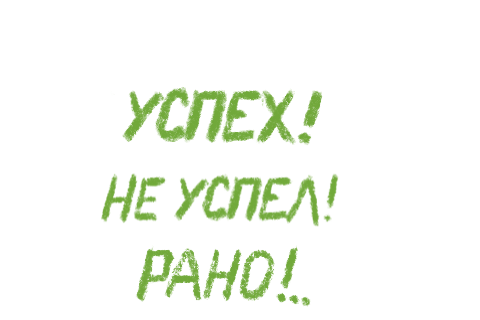
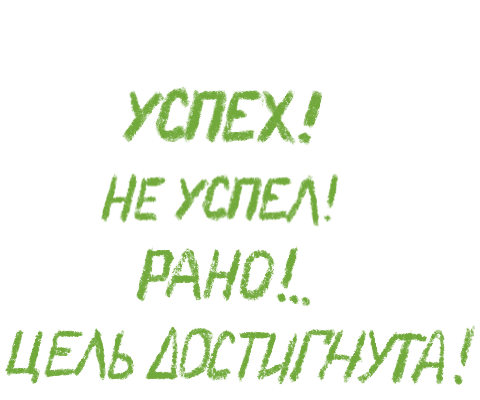
complete message and insta picture

Changed region(s): [[0.0, 0.2188, 1.0, 0.9688]]

diff --git a/first-fox-on-the-moon/index.html b/first-fox-on-the-moon/index.html
@@ -9,9 +9,11 @@
   <script type="text/javascript" src="../lib/book/Book.js"></script>
   <link rel="stylesheet" href="control/control.css">
   <script type="text/javascript" src="control/Control.js"></script>
-  <link rel="stylesheet" href="../css/my.css">
 
   <style>
+    html {
+      --page-aspect-ratio: calc(1504/1622);
+    }
     .book {
       --page-aspect-ratio: calc(1504/1622);
       --border: 2px solid #ddd;
@@ -40,6 +42,72 @@
     .content__hint-video {
       width: 100%;
       margin-top: 10%;
+    }
+
+    html {
+      height: 100%;
+      --page-aspect-ratio: calc(1504/1622);
+    }
+
+    .body {
+      --links-size: 80px;
+      --body-margin: 8px;
+      --links-margin: 8px;
+      --links-self-margin: 60px;
+      overflow: hidden;
+      margin: 0;
+      height: 100%;
+      display: flex;
+    }
+    .content {
+      width: calc(100% - var(--body-margin) * 2);
+      max-width: calc((100vh - var(--body-margin) * 2 - var(--links-size) - var(--links-margin)) * var(--page-aspect-ratio) * 2);
+      margin: auto auto;
+    }
+    .content__links {
+      margin: var(--links-margin) auto 0;
+      width: 100%;
+    }
+
+    .links {
+      display: flex;
+      justify-content: space-around;
+    }
+    .links__item {
+      display: inline-block;
+      flex-shrink: 0;
+      width: var(--links-size);
+      height: var(--links-size);
+      opacity: 0.66;
+      transition: transform 0.25s;
+      background-size: 100% 100%;
+      background-position: center center;
+      background-repeat: no-repeat;
+    }
+    .links__item:hover,
+    .links__item:active,
+    .links__item:focus {
+      outline: none;
+      opacity: 1;
+      transform: translateY(-3px);
+    }
+    .links__item:active {
+      opacity: 1;
+      transform: translateY(0);
+      transition: transform 0.02s;
+    }
+    .links__item_type_inst {
+      background-image: url(../img/insta.png);
+    }
+    .links__item_type_fb {
+      background-image: url(../img/fb.png);
+    }
+    .links__item_type_mail {
+      background-image: url(../img/mail.png);
+    }
+    .links__item_type_insta-only {
+      background-image: url(pages/insta.jpg);
+      width: calc(var(--links-size) * 640 / 155);
     }
   </style>
   <script defer>

diff --git a/first-fox-on-the-moon/control/control.css b/first-fox-on-the-moon/control/control.css
@@ -32,8 +32,9 @@
   transform: rotate(362deg);
 }
 
-.control_phase_landing .control__arrow::before {
-  transform: rotate(400deg);
+.control_phase_landing .control__arrow::before,
+.control_phase_complete .control__arrow::before {
+    transform: rotate(400deg);
 }
 
 .control__arrow {
@@ -60,14 +61,18 @@
 }
 
 .control_message_success .control__message {
-  background-position: top 33% left 0;
+  background-position: top 25% left 0;
 }
 
 .control_message_late .control__message {
-  background-position: top 67% left 0;
+  background-position: top 50% left 0;
 }
 
 .control_message_early .control__message {
+  background-position: top 75% left 0;
+}
+
+.control_phase_complete .control__message {
   background-position: top 100% left 0;
 }
 

diff --git a/first-fox-on-the-moon/control/Control.js b/first-fox-on-the-moon/control/Control.js
@@ -24,6 +24,7 @@ class Control {
     this.PHASE_WAY_TO_MOON = 'way-to-moon';
     this.PHASE_AROUND_MOON = 'around-moon';
     this.PHASE_LANDING = 'landing';
+    this.PHASE_COMPLETE = 'complete';
 
     this.TIME_RESERVE = 0.01;
 
@@ -60,7 +61,12 @@ class Control {
         isLateBefore: 27.5,
         nextPhase: this.PHASE_LANDING,
       },
-      [this.PHASE_LANDING]: {},
+      [this.PHASE_LANDING]: {
+        nextPhaseAfter: 31.25,
+        nextPhase: this.PHASE_COMPLETE,
+      },
+      [this.PHASE_COMPLETE]: {
+      },
     };
 
     this._phase = null;
